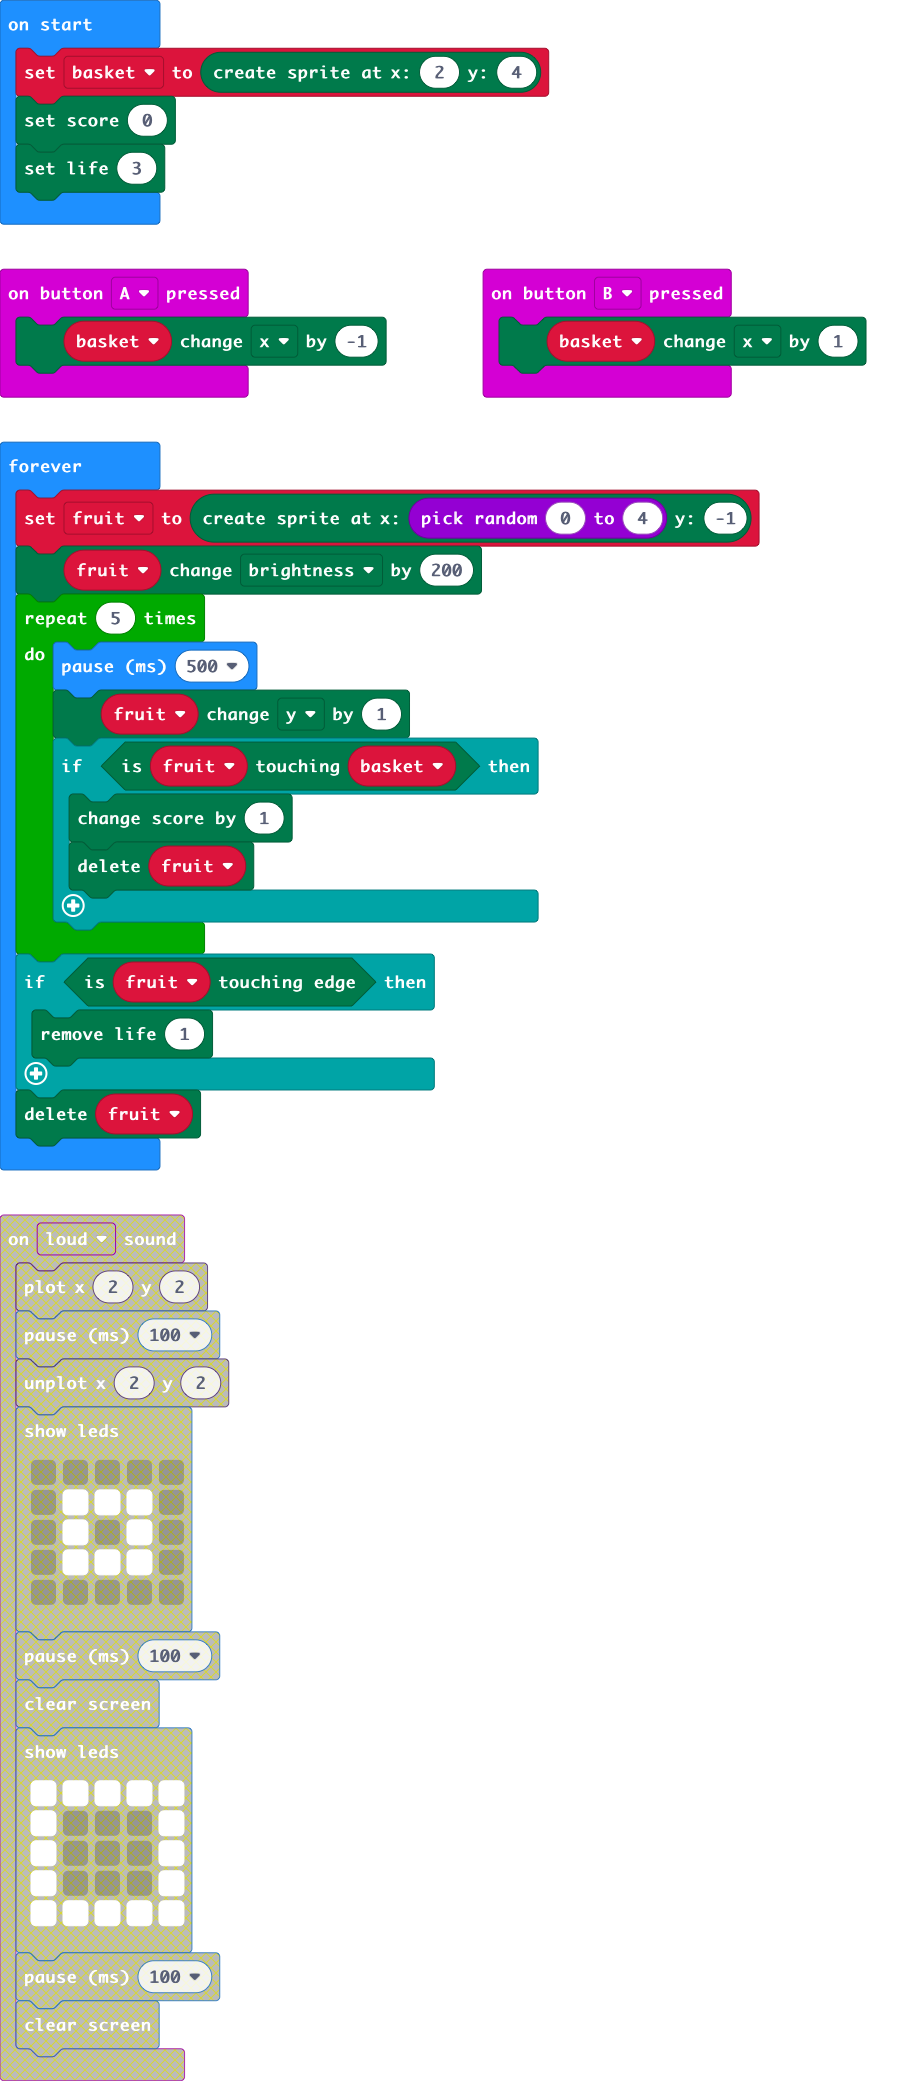
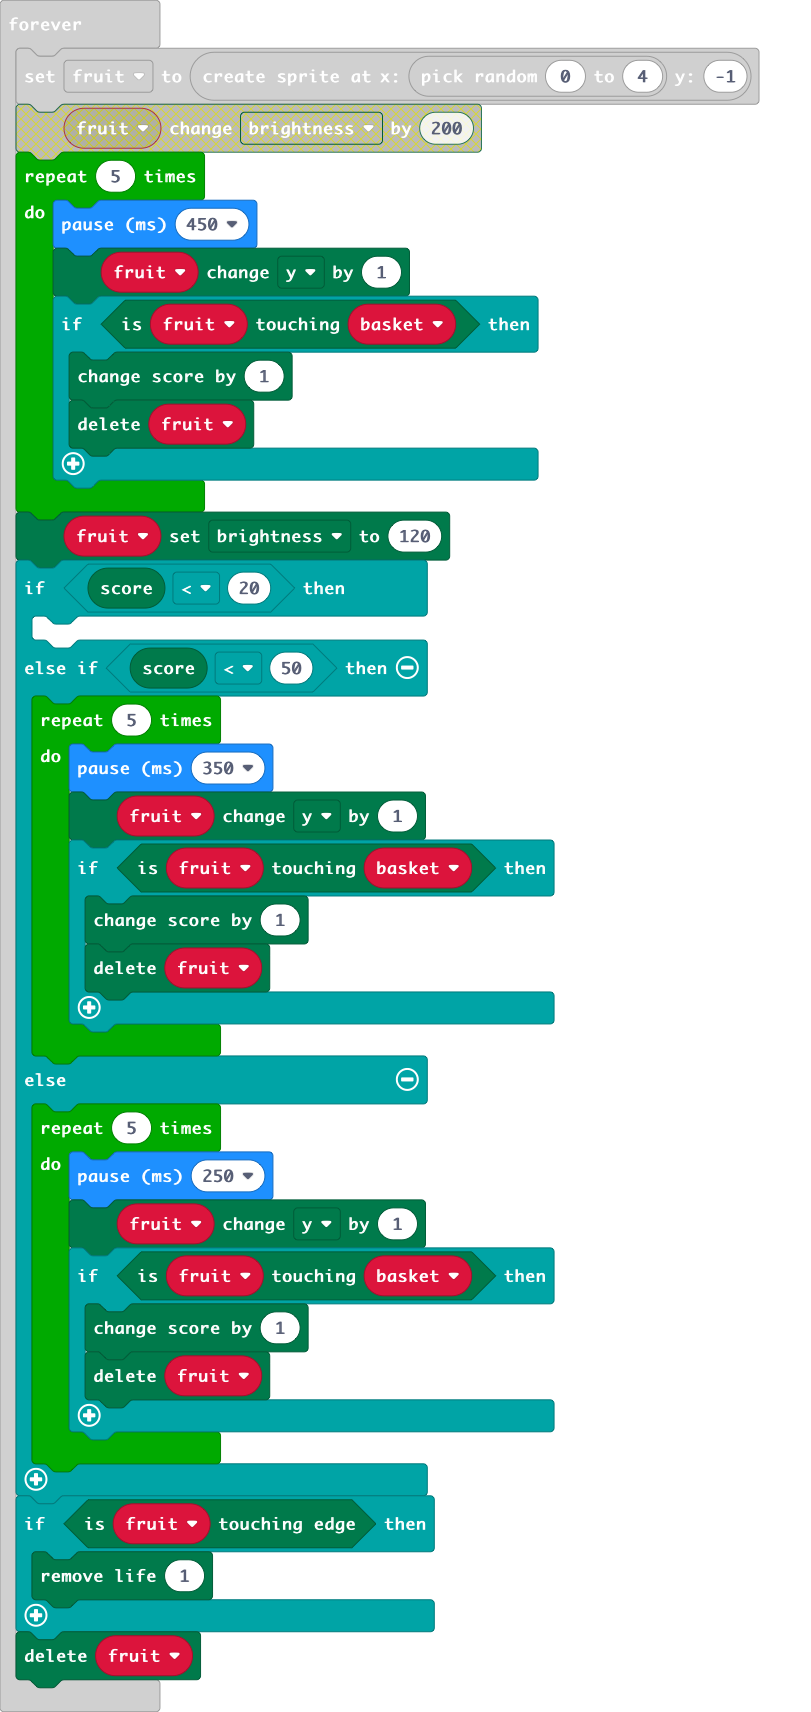
Add more levels to the game

diff --git a/main.ts b/main.ts
@@ -11,13 +11,33 @@ game.setScore(0)
 game.setLife(3)
 basic.forever(function () {
     fruit = game.createSprite(randint(0, 4), -1)
-    fruit.change(LedSpriteProperty.Brightness, 200)
-    for (let index = 0; index < 5; index++) {
-        basic.pause(500)
-        fruit.change(LedSpriteProperty.Y, 1)
-        if (fruit.isTouching(basket)) {
-            game.addScore(1)
-            fruit.delete()
+    fruit.set(LedSpriteProperty.Brightness, 120)
+    if (game.score() < 20) {
+        for (let index = 0; index < 5; index++) {
+            basic.pause(450)
+            fruit.change(LedSpriteProperty.Y, 1)
+            if (fruit.isTouching(basket)) {
+                game.addScore(1)
+                fruit.delete()
+            }
+        }
+    } else if (game.score() < 50) {
+        for (let index = 0; index < 5; index++) {
+            basic.pause(350)
+            fruit.change(LedSpriteProperty.Y, 1)
+            if (fruit.isTouching(basket)) {
+                game.addScore(1)
+                fruit.delete()
+            }
+        }
+    } else {
+        for (let index = 0; index < 5; index++) {
+            basic.pause(250)
+            fruit.change(LedSpriteProperty.Y, 1)
+            if (fruit.isTouching(basket)) {
+                game.addScore(1)
+                fruit.delete()
+            }
         }
     }
     if (fruit.isTouchingEdge()) {

diff --git a/main.py b/main.py
@@ -1,23 +1,28 @@
-def on_sound_loud():
-    led.plot(2, 2)
-    basic.pause(100)
-    led.unplot(2, 2)
-    basic.show_leds("""
-        . . . . .
-                . # # # .
-                . # . # .
-                . # # # .
-                . . . . .
-    """)
-    basic.pause(100)
-    basic.clear_screen()
-    basic.show_leds("""
-        # # # # #
-                # . . . #
-                # . . . #
-                # . . . #
-                # # # # #
-    """)
-    basic.pause(100)
-    basic.clear_screen()
-input.on_sound(DetectedSound.LOUD, on_sound_loud)
+def on_button_pressed_a():
+    basket.change(LedSpriteProperty.X, -1)
+input.on_button_pressed(Button.A, on_button_pressed_a)
+
+def on_button_pressed_b():
+    basket.change(LedSpriteProperty.X, 1)
+input.on_button_pressed(Button.B, on_button_pressed_b)
+
+fruit: game.LedSprite = None
+basket: game.LedSprite = None
+basket = game.create_sprite(2, 4)
+game.set_score(0)
+game.set_life(3)
+
+def on_forever():
+    global fruit
+    fruit = game.create_sprite(randint(0, 4), -1)
+    fruit.change(LedSpriteProperty.BRIGHTNESS, 200)
+    for index in range(5):
+        basic.pause(500)
+        fruit.change(LedSpriteProperty.Y, 1)
+        if fruit.is_touching(basket):
+            game.add_score(1)
+            fruit.delete()
+    if fruit.is_touching_edge():
+        game.remove_life(1)
+    fruit.delete()
+basic.forever(on_forever)
